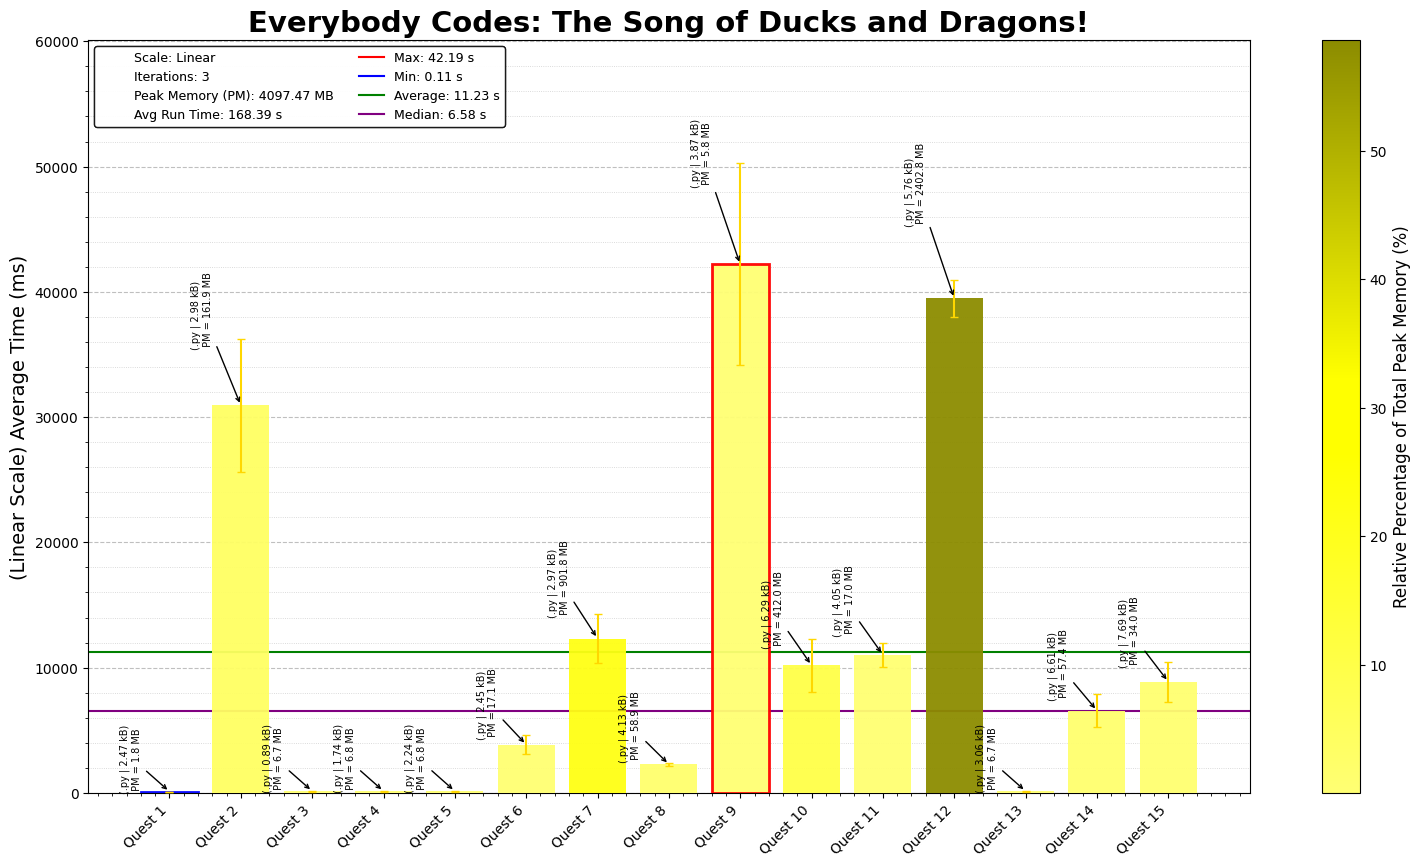
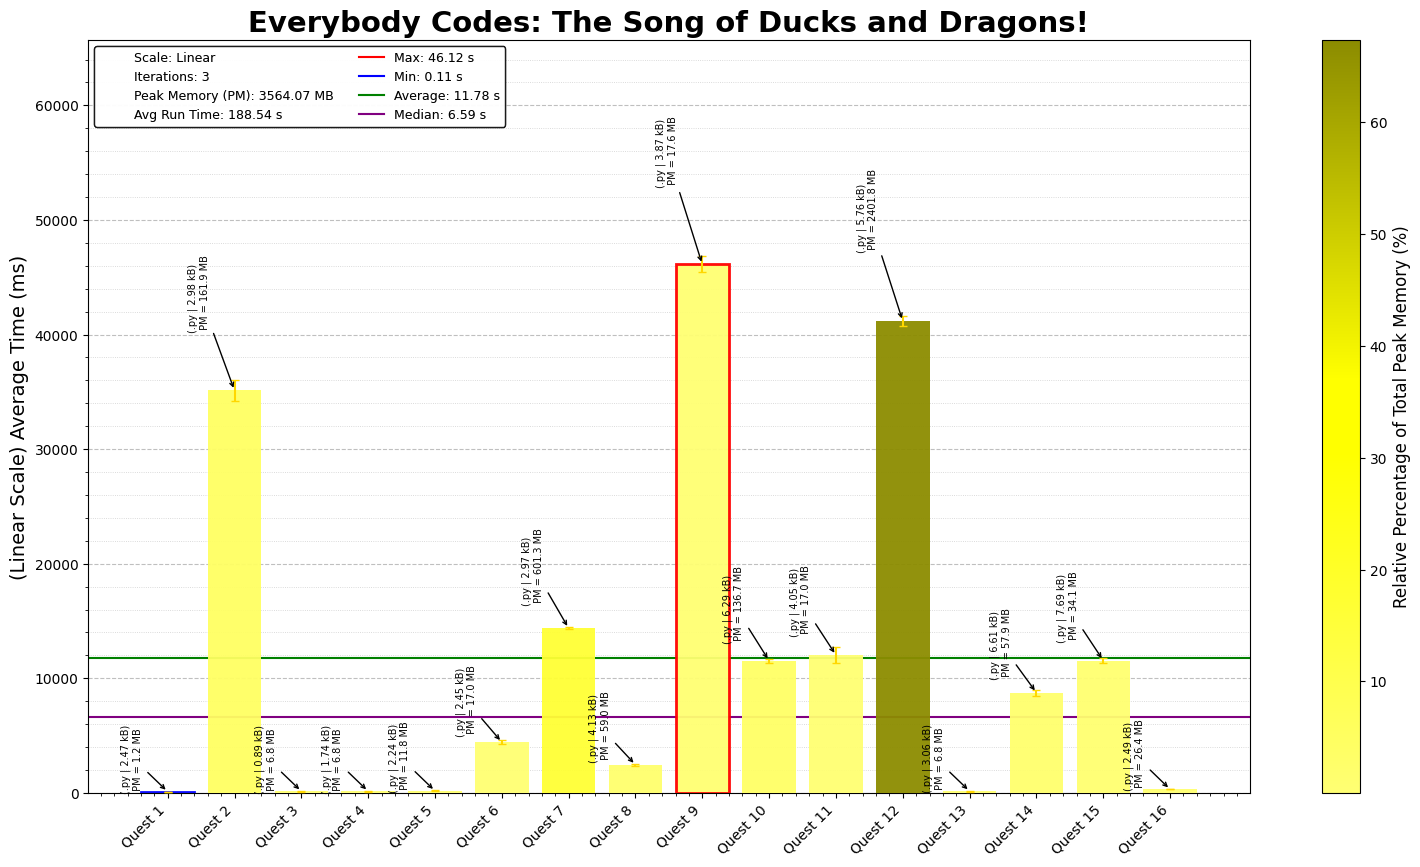
EC 2025 Quest 16: Harmonics of Stone

diff --git a/2025/16/2025Day16.py b/2025/16/2025Day16.py
@@ -1,0 +1,79 @@
+"""Everybody Codes - Quest 16, Year 2025
+Solution Started: November 24, 2025
+Puzzle Link: https://everybody.codes/event/2025/quests/16
+Solution by: Abbas Moosajee
+Brief: [Harmonics of Stone]"""
+
+#!/usr/bin/env python3
+from pathlib import Path
+from collections import defaultdict
+import numpy as np
+import time
+start_time = time.time()
+
+# List of input file names
+input_files = ["Day16_input_p1.txt", "Day16_input_p2.txt", "Day16_input_p3.txt"]
+
+# Read and split the input data into individual lists
+input_data_p1, input_data_p2, input_data_p3 = [
+    open(Path(__file__).parent / file).read().strip().split('\n')
+    for file in input_files
+]
+
+class Stones:
+    def __init__(self, inp_data):
+        self.input_notes = list(map(int, inp_data.split(",")))
+
+    def build_wall(self, columns):
+        total_columns = list(range(1, columns + 1))
+        wall = defaultdict(list)
+        for spell in self.input_notes:
+            for wall_idx in total_columns:
+                if wall_idx % spell == 0:
+                    wall[wall_idx].append(1)
+        return sum(len(col) for col in wall.values())
+
+    def identify_spell(self):
+        wall = defaultdict(int)
+        for idx, col_size in enumerate(self.input_notes, 1):
+            wall[idx] = col_size
+
+        spells = []
+        columns = len(wall)
+
+        # process small → large
+        for s in range(1, columns + 1):
+            if wall[s] > 0:
+                spells.append(s)
+                for m in range(2 * s, columns + 1, s):
+                    wall[m] -= 1
+        return spells
+
+    def identify_wall_len(self, avail_blocks):
+        def blocks_used(length, all_spells):
+            return sum(len(range(spell-1, length, spell)) for spell in all_spells)
+
+        charms = self.identify_spell()
+        upper = 1_000_000_000_000_000
+        lower = len(self.input_notes)
+        while lower < upper:
+            mid = (lower + upper) // 2
+            if blocks_used(mid, charms) < avail_blocks:
+                lower = mid
+            else:
+                upper = mid - 1
+        return lower
+
+stones_p1 = Stones(input_data_p1[0])
+blocks_p1 = stones_p1.build_wall(90)
+print("Quest 16, P1:", blocks_p1)
+
+stones_p2 = Stones(input_data_p2[0])
+spell = stones_p2.identify_spell()
+print("Quest 16, P2:", np.prod(spell))
+
+stones_p3 = Stones(input_data_p3[0])
+blocks_p3 = stones_p3.identify_wall_len(202520252025000)
+print("Quest 16, P3:", blocks_p3)
+
+# print(f"Execution Time: {time.time() - start_time:5f}s")

diff --git a/2025/README_2025.md b/2025/README_2025.md
@@ -20,8 +20,5 @@ This repository contains coding solutions for the 2025 Everybody Codes. Each day
 12. **Day 12 - One Spark to Burn Them All**: Floodfill algorithms at its best, P3 is a brute force approach with minor optimisations to remove dead barrels *Improve P3*
 13. **Day 13 - Unlocking the Mountain** Who knew building dials could be fun and deque is COOL.
 14. **Day 14 - The Game of Light**: A play on the Game of Life, fairly basic 1 and 2 with cycle detection P3.
-<<<<<<< HEAD
-15 **Day 15 - Definitely Not a Maze**: Build your maze, traverse it, scaled to a 1000.
-=======
-15 **Day 15 - Definitely Not a Maze**:
->>>>>>> b16040bae43ff2449a67107aa6e11386da51fa68
+15. **Day 15 - Definitely Not a Maze**: Build your maze, traverse it, scaled to a 1000.
+16. **Day 16 - Harmonics of Stone**: Building blocks and charm spells fairly simple in the end, even if it took a couple tries
